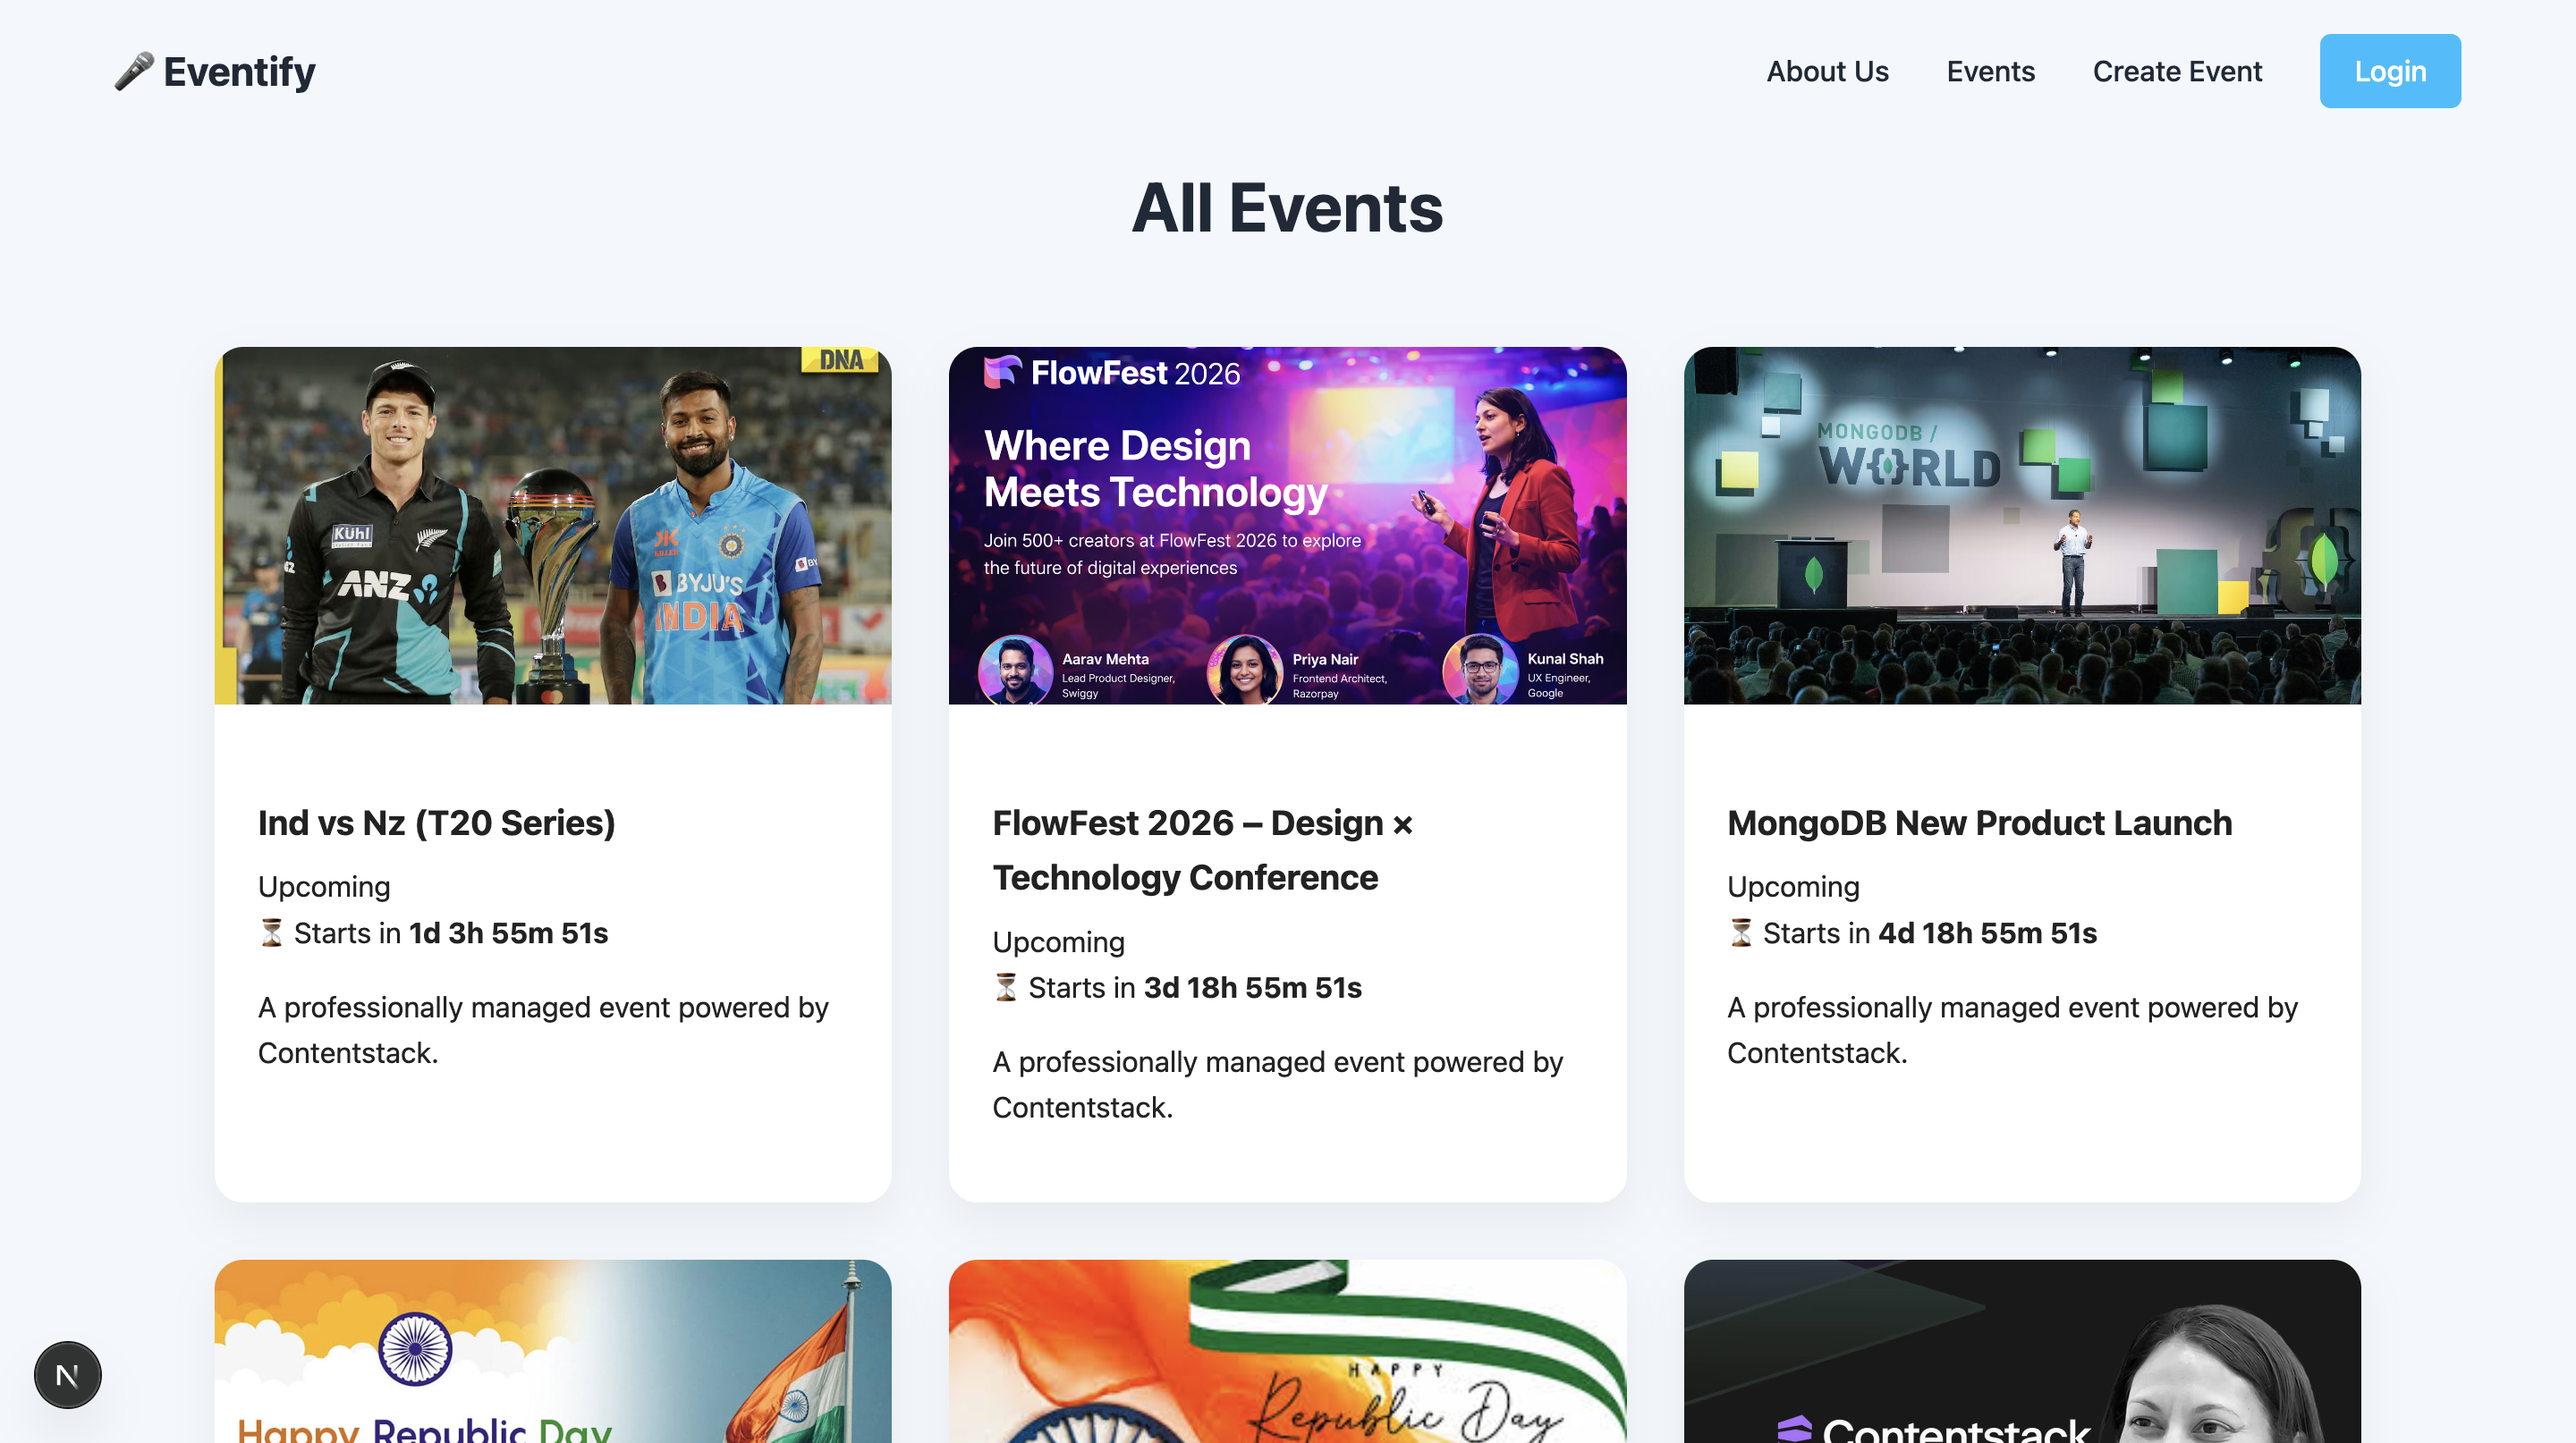
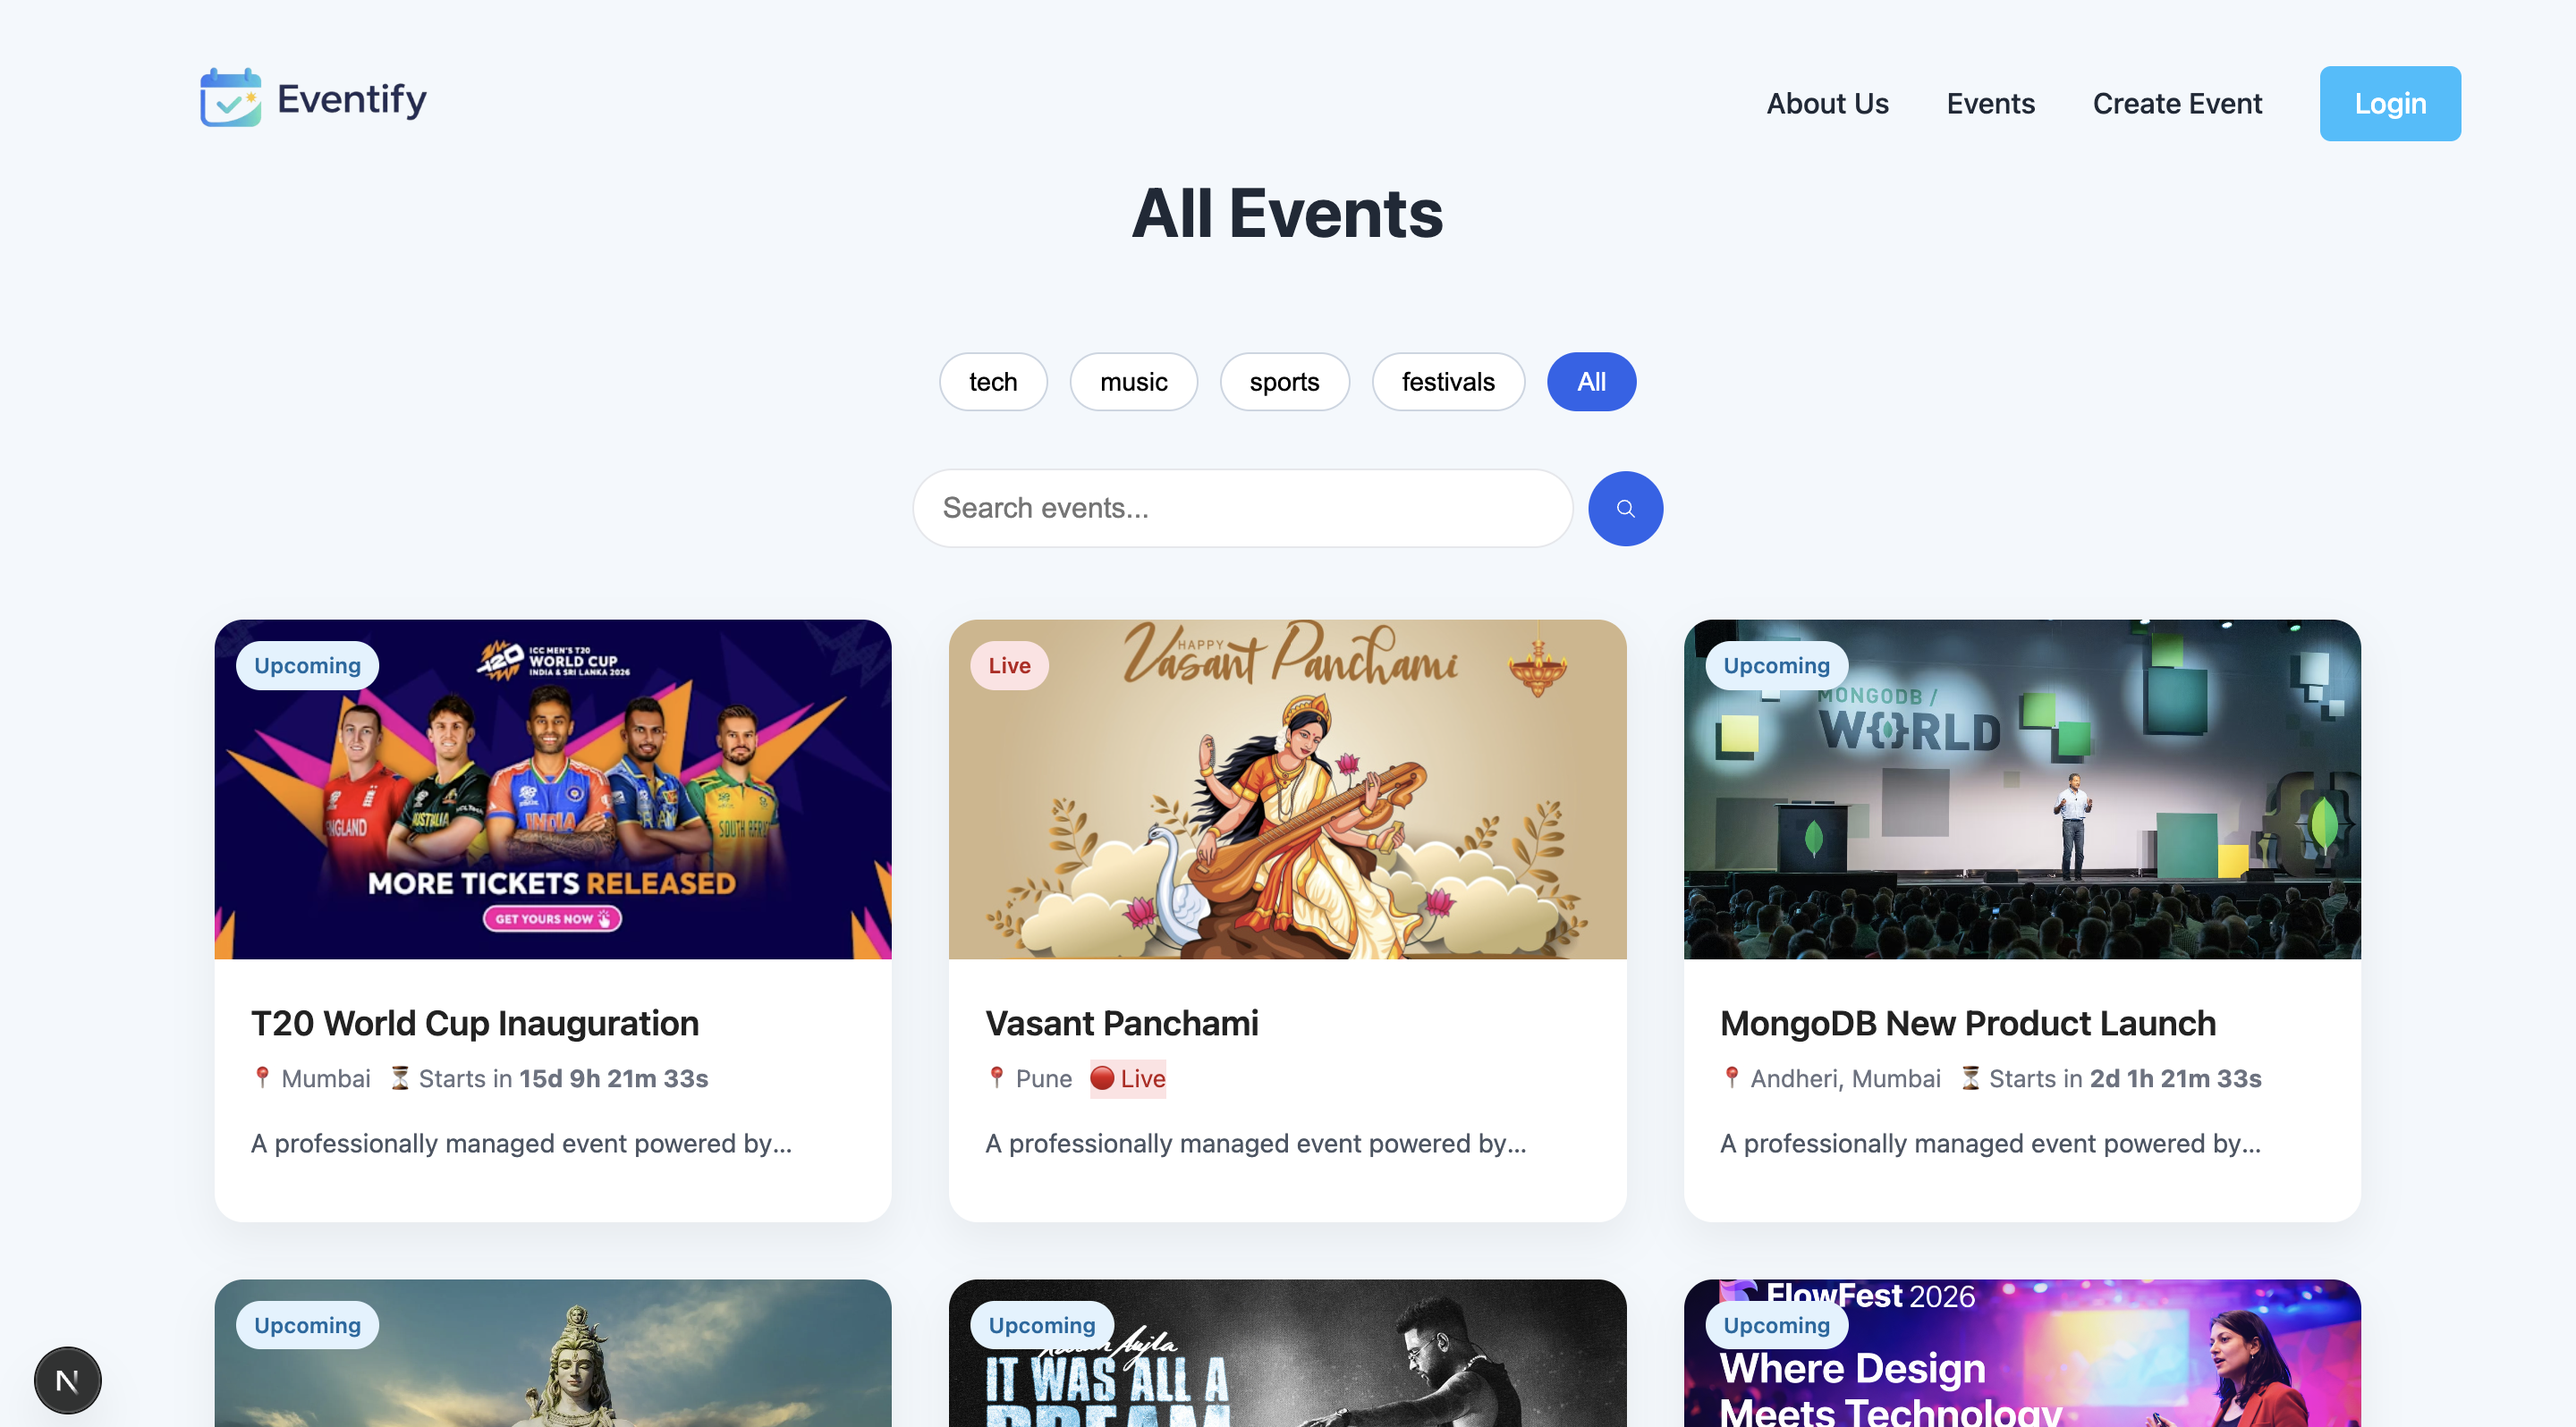
feat: add category field to event creation and enhance EventSearch component with category filtering

diff --git a/src/components/EventSearch.js b/src/components/EventSearch.js
@@ -108,23 +108,45 @@ function EventCard({ hit }) {
 
   return (
     <a href={`/events/${hit.slug}`} className={styles.eventCard}>
+      {/* IMAGE */}
       {hit.banner_image?.url && (
-        <img
-          src={hit.banner_image.url}
-          alt={hit.title}
-          className={styles.eventImage}
-        />
+        <div className={styles.imageWrapper}>
+          <img
+            src={hit.banner_image.url}
+            alt={hit.title}
+            className={styles.eventImage}
+          />
+
+          {/* STATUS BADGE ON IMAGE */}
+          <span className={`${styles.badge} ${styles[status]}`}>
+            {status}
+          </span>
+        </div>
       )}
+
+      {/* CONTENT */}
       <div className={styles.eventContent}>
-        <h3>{hit.title}</h3>
+        {/* TITLE */}
+        <h3 className={styles.eventTitle}>{hit.title}</h3>
 
-        <span className={`${styles.badge} ${styles[status]}`}>
-          {status}
-        </span>
+        {/* META INFO */}
+        <div className={styles.metaRow}>
+          {hit.location && (
+            <span className={styles.location}>📍 {hit.location}</span>
+          )}
 
-        {status === "upcoming" && <CountdownTimer eventDate={hit.start_time} />}
-        {status === "live" && <p>🔴 Live Now</p>}
-        {status === "ended" && <p>Event Ended</p>}
+          {status === "upcoming" && (
+            <CountdownTimer eventDate={hit.start_time} />
+          )}
+
+          {status === "live" && <span className={styles.live}>🔴 Live</span>}
+        </div>
+
+        {/* DESCRIPTION */}
+        <p className={styles.description}>
+          {hit.short_description ||
+            "A professionally managed event powered by Contentstack."}
+        </p>
       </div>
     </a>
   );
@@ -134,17 +156,23 @@ export default function EventSearch() {
   const [interest, setInterest] = useState(null);
 
   useEffect(() => {
-    setInterest(localStorage.getItem("user_interest"));
+    const saved = localStorage.getItem("user_interest");
+    if (saved) setInterest(saved);
   }, []);
 
   const handleInterest = (value) => {
-    localStorage.setItem("user_interest", value);
-    setInterest(value);
+    if (value === "all") {
+      localStorage.removeItem("user_interest");
+      setInterest(null);
+    } else {
+      localStorage.setItem("user_interest", value);
+      setInterest(value);
+    }
   };
 
   return (
     <>
-      {/* 🔥 CATEGORY BUTTONS */}
+      {/* FILTER BUTTONS */}
       <div className={styles.filterBar}>
         {["tech", "music", "sports", "festivals"].map((cat) => (
           <button
@@ -158,32 +186,33 @@ export default function EventSearch() {
           </button>
         ))}
         <button
-          onClick={() => handleInterest(null)}
-          className={styles.filterBtn}
+          onClick={() => handleInterest("all")}
+          className={`${styles.filterBtn} ${!interest ? styles.active : ""}`}
         >
           All
         </button>
       </div>
 
-      <InstantSearch searchClient={searchClient} indexName="events">
-        <Configure filters='_content_type:"event_ayush"' />
+      {/* ================= RECOMMENDED ================= */}
+      {interest && (
+        <>
+          <h2 className={styles.sectionTitle}>Recommended for you</h2>
 
-        {/* 🔥 Recommended */}
-        {interest && (
-          <>
-            <h2 className={styles.sectionTitle}>Recommended for you</h2>
+          <InstantSearch searchClient={searchClient} indexName="events">
+            <Configure
+              filters={`_content_type:"event_ayush" AND category:"${interest}"`}
+              hitsPerPage={3}
+            />
             <div className={styles.eventGrid}>
-              <Configure
-                filters={`_content_type:"event_ayush" AND category:"${interest}"`}
-                hitsPerPage={3}
-              />
               <Hits hitComponent={EventCard} />
             </div>
-          </>
-        )}
+          </InstantSearch>
+        </>
+      )}
 
-        {/* 🔥 All Events */}
-        {/* <h2 className={styles.sectionTitle}>All Events</h2> */}
+      {/* ================= ALL EVENTS ================= */}
+      <InstantSearch searchClient={searchClient} indexName="events">
+        <Configure filters={`_content_type:"event_ayush"`} hitsPerPage={9} />
 
         <div className={styles.searchBarWrapper}>
           <SearchBox placeholder="Search events..." />

diff --git a/src/components/EventSearch.module.css b/src/components/EventSearch.module.css
@@ -5,7 +5,7 @@
 }
 
 .sectionTitle {
-  margin: 2.5rem 0 1.5rem;
+  margin: 0 auto 2rem 6rem;
   font-size: 1.6rem;
   font-weight: 600;
   color: #1f2937;
@@ -124,9 +124,13 @@
 }
 
 .eventCard {
-  display: block;
+  background: white;
+  border-radius: 16px;
+  overflow: hidden;
   text-decoration: none;
   color: inherit;
+  box-shadow: 0 10px 25px rgba(0, 0, 0, 0.06);
+  transition: transform 0.2s ease, box-shadow 0.2s ease;
 }
 
 .eventCard:hover {
@@ -134,15 +138,79 @@
   box-shadow: 0 20px 40px rgba(0, 0, 0, 0.1);
 }
 
+.imageWrapper {
+  position: relative;
+}
+
 .eventImage {
   width: 100%;
-  height: 180px;
+  height: 190px;
   object-fit: cover;
+}
+
+.badge {
+  position: absolute;
+  top: 12px;
+  left: 12px;
+  padding: 4px 10px;
+  font-size: 0.75rem;
+  font-weight: 600;
+  border-radius: 999px;
+  text-transform: capitalize;
+}
+
+.upcoming {
+  background: #e0f2fe;
+  color: #0369a1;
+}
+
+.live {
+  background: #fee2e2;
+  color: #b91c1c;
+}
+
+.ended {
   background: #e5e7eb;
+  color: #374151;
 }
 
 .eventContent {
-  padding: 1.5rem;
+  padding: 1rem 1.25rem 1.25rem;
+}
+
+/* TITLE – closer to image */
+.eventTitle {
+  margin: 0 0 0.4rem;
+  font-size: 1.1rem;
+  font-weight: 600;
+  line-height: 1.3;
+}
+
+/* META ROW */
+.metaRow {
+  display: flex;
+  flex-wrap: wrap;
+  gap: 0.6rem;
+  font-size: 0.85rem;
+  color: #6b7280;
+  margin-bottom: 0.6rem;
+}
+
+.location {
+  display: inline-flex;
+  align-items: center;
+}
+
+/* DESCRIPTION – one line */
+.description {
+  font-size: 0.9rem;
+  color: #4b5563;
+  line-height: 1.4;
+
+  display: -webkit-box;
+  -webkit-line-clamp: 1;
+  -webkit-box-orient: vertical;
+  overflow: hidden;
 }
 
 .eventContent h3 {

diff --git a/src/app/create-event/page.js b/src/app/create-event/page.js
@@ -10,6 +10,7 @@ export default function CreateEvent() {
   const [location, setLocation] = useState("");
   const [startTime, setStartTime] = useState("");
   const [endTime, setEndTime] = useState("");
+  const [category, setCategory] = useState("");
   const [description, setDescription] = useState("");
   const [ctaText, setCtaText] = useState("");
   const [ctaLink, setCtaLink] = useState("");
@@ -100,7 +101,7 @@ export default function CreateEvent() {
     formData.append("description", description);
     formData.append("cta_text", ctaText);
     formData.append("cta_link", ctaLink);
-
+    formData.append("category", category);
     if (bannerImage) {
       formData.append("banner_image", bannerImage);
     }
@@ -157,6 +158,7 @@ export default function CreateEvent() {
     setLocation("");
     setStartTime("");
     setEndTime("");
+    setCategory("");
     setDescription("");
     setCtaText("");
     setCtaLink("");
@@ -197,6 +199,13 @@ export default function CreateEvent() {
             type="datetime-local"
             value={endTime}
             onChange={(e) => setEndTime(e.target.value)}
+            required
+          />
+
+          <input
+            placeholder="Category"
+            value={category}
+            onChange={(e) => setCategory(e.target.value)}
             required
           />
 

diff --git a/src/app/events/[slug]/page.js b/src/app/events/[slug]/page.js
@@ -17,8 +17,6 @@ export default async function EventDetail({ params }) {
     return <div className={styles.notFound}>Event not found</div>;
   }
 
-  const ctaBlock = event.landing_sections?.find((block) => block.cta_section);
-
   return (
     <>
       <Header />
@@ -92,21 +90,19 @@ export default async function EventDetail({ params }) {
         )}
 
         {/* CTA SECTION */}
-        {ctaBlock && (
+        {event.cta_text && event.cta_link && (
           <section className={styles.cta}>
             <div className={styles.ctaContent}>
-              <h2>{ctaBlock.cta_section.cta_text}</h2>
-
-              {ctaBlock.cta_section.cta_description && (
-                <p>{ctaBlock.cta_section.cta_description}</p>
-              )}
+              <h2>{event.cta_text}</h2>
 
               <div className={styles.ctaActions}>
                 <a
-                  href={ctaBlock.cta_section.cta_link}
+                  href={event.cta_link}
+                  target="_blank"
+                  rel="noopener noreferrer"
                   className={styles.primaryBtn}
                 >
-                  {ctaBlock.cta_section.cta_button_text || "Register Now"}
+                  Register Now
                 </a>
               </div>
             </div>

diff --git a/src/app/api/create-event/route.js b/src/app/api/create-event/route.js
@@ -109,6 +109,7 @@ export async function POST(req) {
     const location = formData.get("location");
     const start_time = formData.get("start_time");
     const end_time = formData.get("end_time");
+    const category = formData.get("category");
     const description = formData.get("description");
     const cta_text = formData.get("cta_text");
     const cta_link = formData.get("cta_link");
@@ -233,6 +234,7 @@ export async function POST(req) {
       location,
       start_time,
       end_time,
+      category,
       description,
       cta_text: cta_text || "Register now",
       cta_link: cta_link || "#",

diff --git a/src/app/events/[slug]/page.module.css b/src/app/events/[slug]/page.module.css
@@ -148,14 +148,12 @@
 
 /* CTA SECTION */
 .cta {
-  margin-top: 5rem;
-  padding: 5rem 1.5rem;
-  background: linear-gradient(
-    135deg,
-    #0ea5e9 0%,
-    #2563eb 100%
-  );
+  margin-top: 4rem;
+  padding: 3rem;
+  background: linear-gradient(135deg, #2563eb, #1e40af);
   color: white;
+  border-radius: 20px;
+  text-align: center;
 }
 
 .ctaContent {

diff --git a/src/app/page.module.css b/src/app/page.module.css
@@ -218,7 +218,7 @@
 }
 
 .ctaBlock {
-  background: #0f172a;
+  background: linear-gradient(135deg, #2563eb, #1e40af);
   color: white;
   padding: 4rem 1.5rem;
   text-align: center;
